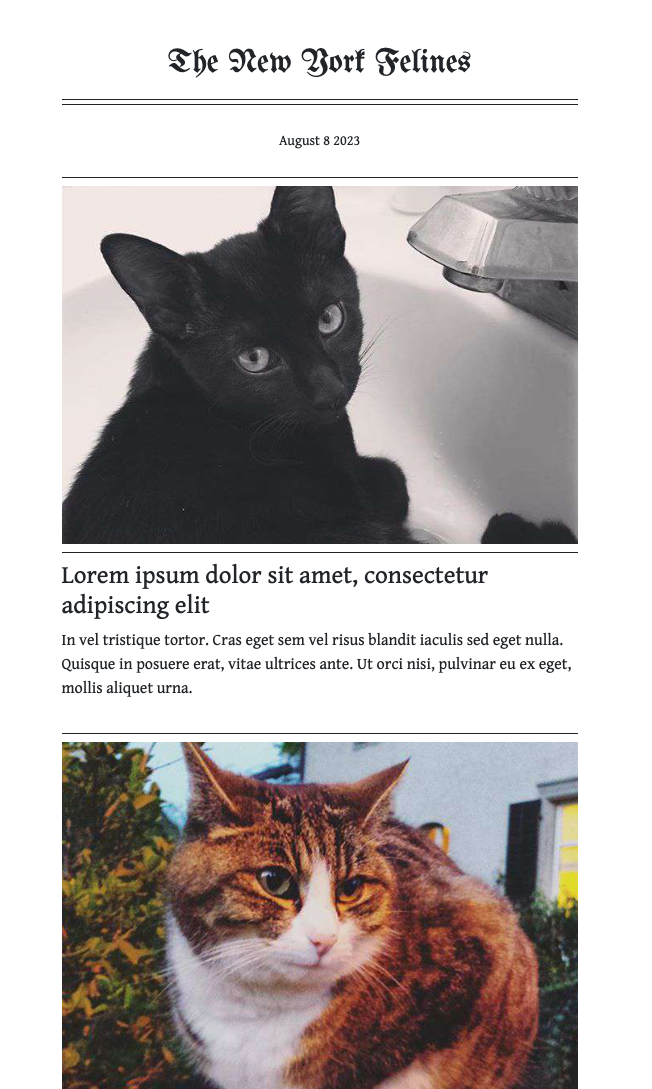
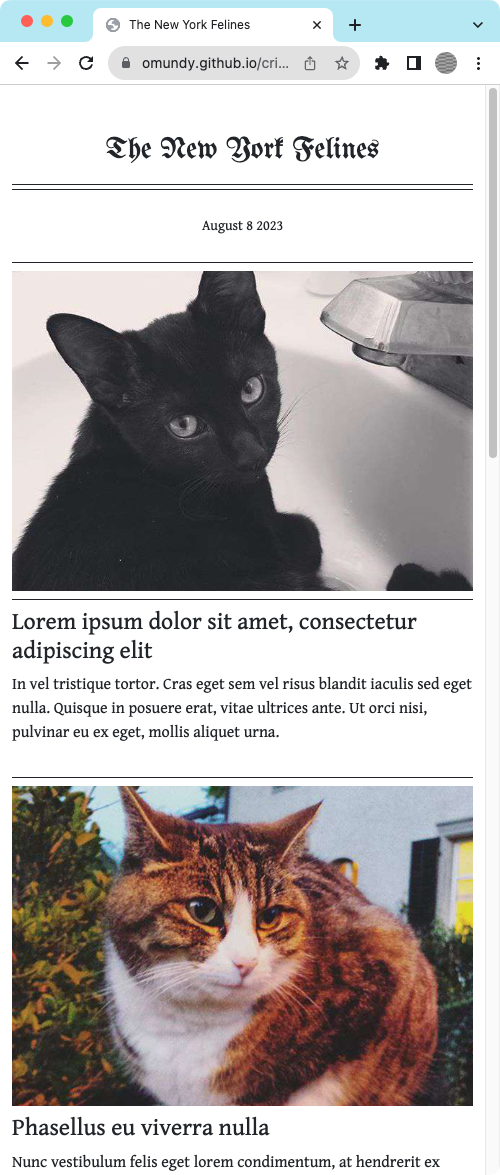
Update example screenshots

diff --git a/README.md b/README.md
@@ -26,15 +26,17 @@ Create a work of critical web design: Throughout the modules in this chapter you
 
 Design a responsive multi-column web page layout for a fictional newspaper. Use lorem ipsum placeholder text throughout your design. Code the page using the Bootstrap framework. Examples: [The New York Felines](https://omundy.github.io/critical-web-design-book/04-on-the-grid/examples/the-new-york-felines/)
 
-<img height="240" src="figures/ch4/ch4-outcome-lg.png"> <img height="240" src="figures/ch4/ch4-outcome-md.png"> <img height="240" src="figures/ch4/ch4-outcome-xs.png">
+<img height="240" src="figures/ch4/ch4-outcome-lg.png"> <img height="240" src="figures/ch4/ch4-outcome-md.png">  <img height="240" src="figures/ch4/ch4-outcome-sm.png"> <img height="240" src="figures/ch4/ch4-outcome-xs.png">
 
 ## Chapter 5 - Usability & Forms
 
 Create and implement a usability test, then design a responsive web page to reflect on findings. Evaluate your design using the "less is more" critique. Code the design using bootstrap, including a working web form to output the score from the System Usability Scale (SUS) survey. Examples: [AIGA usability test](https://omundy.github.io/critical-web-design-book/05-usability/examples/usability-aiga/)
 
-<img height="220" src="figures/ch5/5.3-codepen-form-2.png"> <img height="220" src="figures/ch5/5.3-Usability-results.png">
+<img height="220" src="figures/ch5/5.3-codepen-form-2.png"> <img height="220" src="figures/ch5/ch5-outcome-lg.png"> <img height="220" src="figures/ch5/ch5-outcome-md.png"> <img height="220" src="figures/ch5/ch5-outcome-sm.png"> <img height="220" src="figures/ch5/ch5-outcome-xs.png">
 
 ## Chapter 6 - Off the Grid
+
+Examples: [AIGA usability test](https://omundy.github.io/critical-web-design-book/05-usability/examples/usability-aiga/)
 
 <img height="190" src="figures/ch6/ch6-haiku-x.png"> <img height="190" src="figures/ch6/6-nyt-explode.png"> <img height="190" src="figures/ch6/ch6-haiku-o-1.png"> <img height="190" src="figures/ch6/ch6-haiku-o-2.png"> <img height="190" src="figures/ch6ch6-haiku-o-3.png">
 
